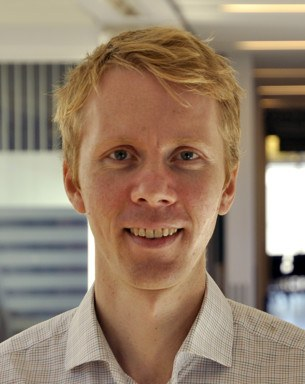
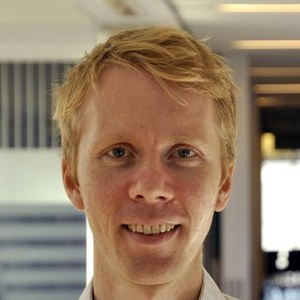
Fix speaker photo crops and update meeting dates to 7-9 May
Photos: re-cropped 8 portrait images to face-centred squares
- image1/3/5/6/7/8: shifted crop upward to show full face
- image9 (Notaguchi): top-square crop to remove excess body
- image10 (Melnyk): top-square crop to remove excess body
- All resized to 300x300px for consistency

Dates: change 7-10 May to 7-9 May sitewide (8 files)
- endDate schema updated to 2026-05-09
- Program heading: 'Four days' -> 'Three days in Wuhan'
- May 10 departure row retained in program table

diff --git a/founding-meeting.html b/founding-meeting.html
@@ -5,7 +5,7 @@
 <meta name="referrer" content="strict-origin-when-cross-origin">
 <meta name="viewport" content="width=device-width, initial-scale=1">
 <title>Founding Meeting 2026 — IPGS</title>
-<meta name="description" content="IPGS Founding Meeting & International Plant Grafting Symposium, Wuhan, 7–10 May 2026 — program, speakers, registration, and logistics.">
+<meta name="description" content="IPGS Founding Meeting & International Plant Grafting Symposium, Wuhan, 7–9 May 2026 — program, speakers, registration, and logistics.">
 <meta name="theme-color" content="#14532D">
 <link rel="icon" href="assets/favicon.svg" type="image/svg+xml">
 <link rel="preconnect" href="https://fonts.googleapis.com">
@@ -19,7 +19,7 @@
   "name": "IPGS Founding Meeting & International Plant Grafting Symposium 2026",
   "description": "The inaugural meeting of the International Plant Grafting Society and International Plant Grafting Symposium, held at Huazhong Agricultural University, Wuhan.",
   "startDate": "2026-05-07",
-  "endDate": "2026-05-10",
+  "endDate": "2026-05-09",
   "eventStatus": "https://schema.org/EventScheduled",
   "eventAttendanceMode": "https://schema.org/OfflineEventAttendanceMode",
   "location": {
@@ -73,7 +73,7 @@
   <section class="page-header">
     <div class="container">
       <nav class="breadcrumb"><a href="index.html">Home</a> / <a href="events.html">Events</a> / Founding Meeting</nav>
-      <span class="eyebrow" style="color:var(--ipgs-gold-400)">7–10 May 2026 · Wuhan, Hubei, China</span>
+      <span class="eyebrow" style="color:var(--ipgs-gold-400)">7–9 May 2026 · Wuhan, Hubei, China</span>
       <h1>IPGS Founding Meeting &amp; Symposium</h1>
       <p class="lead">The inaugural meeting of the International Plant Grafting Society — Charter signing, Board seating, and Working-Group formation — combined with an international scientific symposium bringing together the world's leading grafting researchers.</p>
     </div>
@@ -85,7 +85,7 @@
       <div class="grid grid-2">
         <div>
           <span class="eyebrow">Program</span>
-          <h2>Four days in Wuhan</h2>
+          <h2>Three days in Wuhan</h2>
           <div class="table-wrap">
             <table class="table">
               <thead><tr><th>Date</th><th>Program</th></tr></thead>

diff --git a/index.html b/index.html
@@ -72,7 +72,7 @@
 <!-- Announcement bar for the Founding Meeting -->
 <div class="announcement-banner">
   <div class="container">
-    <strong>IPGS Founding Meeting</strong> · Wuhan, 7–10 May 2026 ·
+    <strong>IPGS Founding Meeting</strong> · Wuhan, 7–9 May 2026 ·
     <a href="founding-meeting.html">View program &amp; logistics →</a>
   </div>
 </div>
@@ -152,7 +152,7 @@
       <div style="display:grid;gap:2rem;grid-template-columns:1fr 1fr;align-items:center;" class="grid">
         <div>
           <span class="eyebrow">Save the date</span>
-          <h2>IPGS Founding Meeting<br>Wuhan · 7–10 May 2026</h2>
+          <h2>IPGS Founding Meeting<br>Wuhan · 7–9 May 2026</h2>
           <p>The inaugural meeting of the International Plant Grafting Society. The Charter will be signed, the first Board seated, and the first Working Groups constituted. Invited founding participants arrive from Brazil, China, France, Greece, Italy, New Zealand, Spain, and Türkiye.</p>
           <div class="hero-ctas">
             <a href="founding-meeting.html" class="btn btn-primary">Meeting details</a>

diff --git a/events.html b/events.html
@@ -53,7 +53,7 @@
     <div class="container">
       <div class="card" style="border-left:6px solid var(--ipgs-gold);background:var(--ipgs-white)">
         <span class="chip chip-gold">Upcoming</span>
-        <h2 style="margin:.6rem 0">IPGS Founding Meeting — Wuhan, 7–10 May 2026</h2>
+        <h2 style="margin:.6rem 0">IPGS Founding Meeting — Wuhan, 7–9 May 2026</h2>
         <p>The inaugural meeting of the International Plant Grafting Society. Charter signature, first Board seating, and constitution of the first Working Groups. Invited participants from Brazil, China, France, Greece, Italy, New Zealand, Spain, and Türkiye.</p>
         <a href="founding-meeting.html" class="btn btn-primary">View program &amp; logistics</a>
       </div>

diff --git a/news.html b/news.html
@@ -53,7 +53,7 @@
       <div class="grid grid-2">
         <article class="card card-accent-left">
           <span class="chip">Announcement</span>
-          <h3 style="margin-top:.6rem"><a href="#">IPGS Founding Meeting: Wuhan, 7–10 May 2026</a></h3>
+          <h3 style="margin-top:.6rem"><a href="#">IPGS Founding Meeting: Wuhan, 7–9 May 2026</a></h3>
           <p class="muted"><time datetime="2026-03-31">31 March 2026</time></p>
           <p>Invitation letters have been dispatched to the 2026 founding cohort. The meeting will convene senior grafting scientists from Brazil, China, France, Greece, Italy, New Zealand, Spain, and Türkiye at HZAU for the formal signing of the IPGS Charter.</p>
         </article>

diff --git a/about/people.html b/about/people.html
@@ -135,7 +135,7 @@
       <div style="max-width:700px;margin:0 auto 2.5rem">
         <span class="eyebrow">Governance</span>
         <h2>Board of Directors</h2>
-        <p>The Board is constituted at the Founding Meeting (7–10 May 2026). Positions listed as TBC will be elected or appointed at that meeting. All terms are four years.</p>
+        <p>The Board is constituted at the Founding Meeting (7–9 May 2026). Positions listed as TBC will be elected or appointed at that meeting. All terms are four years.</p>
       </div>
 
       <!-- Chair -->

diff --git a/about/roadmap.html b/about/roadmap.html
@@ -55,7 +55,7 @@
           <span class="timeline-phase">Phase 0 · 2026 Q1–Q2</span>
           <h3>Founding</h3>
           <ul>
-            <li>Sign the Charter with Founding Members at the Wuhan Founding Meeting (7–10 May 2026).</li>
+            <li>Sign the Charter with Founding Members at the Wuhan Founding Meeting (7–9 May 2026).</li>
             <li>Appoint a Board at HZAU.</li>
             <li>Establish the Secretariat at HZAU-CHFS.</li>
           </ul>

diff --git a/ipgs-wp-page.html b/ipgs-wp-page.html
@@ -395,7 +395,7 @@
       <!-- Founding meeting banner -->
       <div class="ipgs-meeting">
         <div>
-          <div class="ipgs-meeting-date">7–10 May 2026</div>
+          <div class="ipgs-meeting-date">7–9 May 2026</div>
           <div class="ipgs-meeting-title">IPGS Founding Meeting &amp; Symposium</div>
           <div class="ipgs-meeting-sub">Wuhan, Hubei, China · Huazhong Agricultural University</div>
         </div>

diff --git a/DEPLOYMENT.md b/DEPLOYMENT.md
@@ -19,7 +19,7 @@ ipgs-website/
 ├── research.html            3-tier research model + 7 Working Groups
 ├── knowledge.html           Knowledge Commons (MIGE, FAIR policy)
 ├── events.html              Events programmes and calls
-├── founding-meeting.html    Wuhan, 7–10 May 2026 landing page
+├── founding-meeting.html    Wuhan, 7–9 May 2026 landing page
 ├── news.html                Announcements and newsletter
 ├── contact.html             Secretariat, regional desks, contact form
 ├── privacy.html             Privacy policy (draft)
